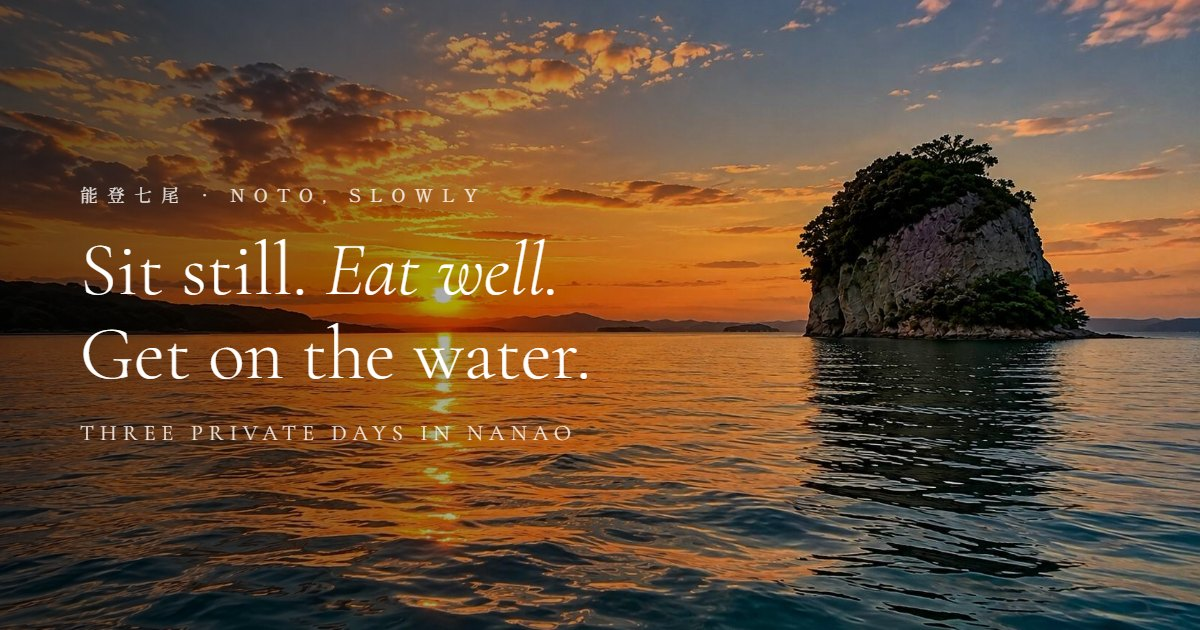
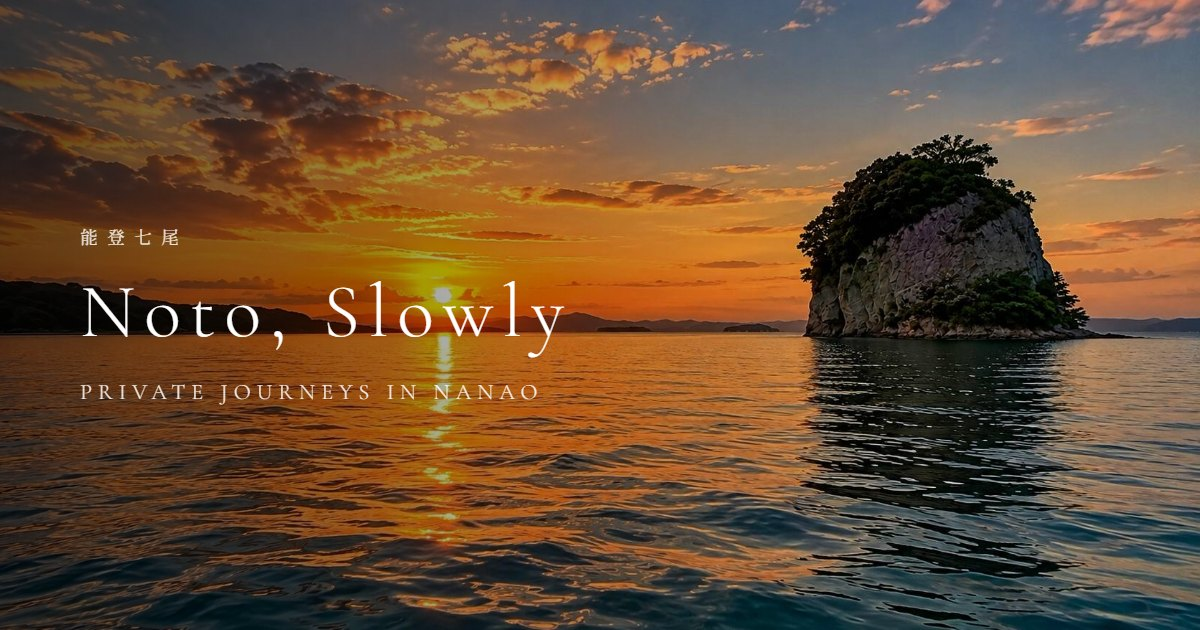
Copy pass: remove hero headline, '...and done' endings, repeats and negations; unify journeys/numbering; new share image

diff --git a/index.html b/index.html
@@ -3,15 +3,15 @@
 <head>
 <meta charset="utf-8">
 <meta name="viewport" content="width=device-width,initial-scale=1">
-<title>Noto, Slowly — Private days in Nanao</title>
-<meta name="description" content="Three private days in Nanao, Noto: Zen and the sea, sushi and its origins, and paddling the bay. Up to 5 guests, hosted by locals.">
+<title>Noto, Slowly — Private journeys in Nanao</title>
+<meta name="description" content="Three private journeys in Nanao, Noto: Zen and the sea, sushi and its origins, and paddling the bay. For 2 to 5 guests, hosted by locals.">
 <!-- v1 2026-10-05：本人「高級感薄くね？星のやを参考に、パクリはダメだからアップデート」で作り直し。
      星のやから借りたのは"原理"だけ＝暗い地の質感・明朝の一行・余白・写真が主役・下の値段バー。
      自前の更新点＝①地の色がツアーごとに移る（苔→漆→藍）②下の値段バーが見ているツアーに切り替わる③縦書きの和名を写真の脇に添える。
      数字・行程の正本＝Cloude秘書/のとくる事業部/ノマド向けLP_3ツアー_工程と計測設計_2026-10-03.md -->
 <meta property="og:type" content="website">
-<meta property="og:title" content="Noto, Slowly — Three private days in Nanao">
-<meta property="og:description" content="Zen and the sea, sushi and its origins, and paddling the bay. Private days for 2 to 5, hosted by locals in English.">
+<meta property="og:title" content="Noto, Slowly — Private journeys in Nanao">
+<meta property="og:description" content="Zen and the sea, sushi and its origins, and paddling the bay. Private journeys for 2 to 5, hosted by locals.">
 <meta property="og:url" content="https://sandboxconnections-spec.github.io/noto-tours-lp/">
 <meta property="og:image" content="https://sandboxconnections-spec.github.io/noto-tours-lp/img/og.jpg">
 <meta property="og:image:width" content="1200"><meta property="og:image:height" content="630">
@@ -78,10 +78,11 @@ html[lang=ja] .bar__l b{font-family:var(--serif)}
 @keyframes slide{0%{opacity:0;transform:scale(1.02)}6%{opacity:1}33%{opacity:1}40%{opacity:0;transform:scale(1.1)}100%{opacity:0}}
 .hero:after{content:"";position:absolute;inset:0;background:linear-gradient(180deg,rgba(0,0,0,.45),rgba(0,0,0,.15) 40%,rgba(0,0,0,.7))}
 .hero__in{position:absolute;inset:0;z-index:1;display:flex;flex-direction:column;align-items:center;justify-content:center;text-align:center;padding:0 24px}
-.vmark{writing-mode:vertical-rl;font:400 15px/1 var(--mincho);letter-spacing:.6em;padding-top:.6em;margin-bottom:44px;border-right:1px solid rgba(255,255,255,.5);padding-right:12px}
+.vmark{writing-mode:vertical-rl;font:400 17px/1 var(--mincho);letter-spacing:.7em;padding-top:.7em;margin-bottom:0;border-right:1px solid rgba(255,255,255,.5);padding-right:12px}
 .hero h1{font:300 clamp(34px,5.2vw,64px)/1.25 var(--serif);letter-spacing:.04em}
 .hero h1 i{font-style:italic}
 .hero .sub{margin-top:30px;font-size:12px;letter-spacing:.3em;text-transform:uppercase;color:rgba(255,255,255,.78)}
+.sr{position:absolute;width:1px;height:1px;overflow:hidden;clip:rect(0 0 0 0);white-space:nowrap}
 .scroll{position:absolute;left:50%;bottom:28px;width:1px;height:56px;background:linear-gradient(rgba(255,255,255,.7),rgba(255,255,255,0));z-index:1;animation:drip 2.6s ease-in-out infinite}
 @keyframes drip{0%{transform:scaleY(0);transform-origin:top}50%{transform:scaleY(1);transform-origin:top}51%{transform-origin:bottom}100%{transform:scaleY(0);transform-origin:bottom}}
 
@@ -154,7 +155,7 @@ a:focus-visible,.btn:focus-visible{outline:1px solid var(--ink);outline-offset:4
 .how h2{font:300 40px/1.3 var(--serif)}
 .how .jp{font:400 12px/1 var(--mincho);letter-spacing:.6em;color:var(--sub);margin-top:18px}
 .qa{max-width:760px;margin:72px auto 0;text-align:left;border-bottom:1px solid var(--faint)}
-.qa>div{display:grid;grid-template-columns:240px 1fr;gap:40px;padding:34px 0;border-top:1px solid var(--faint)}
+.qa>div{display:grid;grid-template-columns:270px 1fr;gap:40px;padding:34px 0;border-top:1px solid var(--faint)}
 .qa h3{font:300 22px/1.35 var(--serif)}
 .qa p,.qa li{color:var(--sub)}
 .qa ul,.qa ol{list-style:none}
@@ -245,24 +246,22 @@ footer b{display:block;font:300 22px/1 var(--serif);letter-spacing:.24em;text-tr
   </div>
   <div class="hero__in">
     <p class="vmark" lang="ja">能登七尾</p>
-    <h1>Sit still. <i>Eat well.</i><br>Get on the water.</h1>
-    <p class="sub">Three private days on the Noto Peninsula</p>
+    <h1 class="sr">Noto, Slowly — private journeys in Nanao</h1>
   </div>
   <span class="scroll" aria-hidden="true"></span>
 </section>
 
 <main>
   <section class="wrap prologue" data-sec="intro">
-    <p class="jp fi" lang="ja">ゆっくり、能登</p>
     <h2 class="fi">A quiet port town on a calm bay, an hour by train from Kanazawa. Three journeys to the people who make it, hosted by those of us who live here.</h2>
-    <p class="fi">Each day is private, for your group of up to five, with one of us beside you in English. You meet the people who brew the soy sauce, shape the sushi and keep the temple — never a tour counter.</p>
+    <p class="fi">Each day is private, for 2 to 5 guests. You meet the people who brew the soy sauce, shape the sushi and keep the temple.</p>
     <div class="rule fi"></div>
   </section>
 
   <nav class="three" aria-label="The three days" data-sec="index">
-    <a href="#zen"><small>I · Mindfulness</small><b>Zen &amp; Sea</b><span lang="ja">禅と海</span></a>
-    <a href="#sushi"><small>II · Gourmet</small><b>Sushi and Its Origins</b><span lang="ja">鮨の源流</span></a>
-    <a href="#sup"><small>III · Activity</small><b>Paddle the Bay</b><span lang="ja">湾を漕ぐ</span></a>
+    <a href="#zen"><small>I — Mindfulness</small><b>Zen &amp; Sea</b><span lang="ja">禅と海</span></a>
+    <a href="#sushi"><small>II — Gourmet</small><b>Sushi and Its Origins</b><span lang="ja">鮨の源流</span></a>
+    <a href="#sup"><small>III — Activity</small><b>Paddle the Bay</b><span lang="ja">湾を漕ぐ</span></a>
   </nav>
 
   <!-- ===== I MINDFULNESS ===== -->
@@ -280,8 +279,8 @@ footer b{display:block;font:300 22px/1 var(--serif);letter-spacing:.24em;text-tr
       </figure>
       <div class="story">
         <div class="fi">
-          <p class="lead">Learn zazen at a former head temple, eat in silence, work with your hands, and sit by the sea. End the day by lighting a candle you chose yourself.</p>
-          <p class="txt">Sojiji Soin was the head temple of the Soto school for almost 600 years. You learn the form of zazen and sit for thirty minutes. In the afternoon you carve a pattern into lacquer chopsticks at a craftsman’s shop, then pick a hand-made Japanese candle on Ipponsugi Street to light after dinner.</p>
+          <p class="lead">Learn zazen at a former head temple, eat in silence, work with your hands, and sit by the sea. Last, you light a candle you chose yourself.</p>
+          <p class="txt">Sojiji Soin was the head temple of the Soto school for almost 600 years. In the afternoon you carve a pattern into lacquer chopsticks at a craftsman’s shop, then pick a hand-made Japanese candle on Ipponsugi Street to light after dinner.</p>
         </div>
         <div class="side fi">
           <img src="img/zen-autumn.jpg" alt="Temple buildings among autumn maples" loading="lazy">
@@ -298,7 +297,6 @@ footer b{display:block;font:300 22px/1 var(--serif);letter-spacing:.24em;text-tr
           <li><time>14:35</time><span>Carve chinkin chopsticks at Araki</span></li>
           <li><time>16:00</time><span>Choose tonight’s candle on Ipponsugi Street</span></li>
           <li><time>17:15</time><span>Dinner, taken slowly</span></li>
-          <li><time>21:25</time><span>Light your candle</span></li>
         </ol>
       </div>
       <div class="terms fi">
@@ -326,7 +324,7 @@ footer b{display:block;font:300 22px/1 var(--serif);letter-spacing:.24em;text-tr
       <div class="story">
         <div class="fi">
           <p class="lead">See how the soy sauce is made, then stand in the rice terraces where the rice is grown. At night, a master’s counter brings it all together.</p>
-          <p class="txt">The day starts at Torii Shoyu, a hundred-year-old brewery in a registered cultural property on Ipponsugi Street, where you see how soy sauce is made. Lunch is at Chiyozushi, a sushi bar in town. In the afternoon we drive to Nakanoto to walk the terraced rice fields with a grower who moved here and lives in an old farmhouse, and learn how the rice is grown. Dinner is at Taisho Sushi near the station, where you sit with the regulars and eat what they eat.</p>
+          <p class="txt">Torii Shoyu has brewed soy sauce for a hundred years, in a building registered as a cultural property. The rice terraces are shown to you by a grower who moved to Nakanoto and lives in an old farmhouse. At Taisho Sushi you sit with the regulars and eat what they eat.</p>
         </div>
         <div class="side fi">
           <img src="img/soy-koji.jpg" alt="Koji being spread on wooden trays at a soy sauce brewery" loading="lazy">
@@ -371,7 +369,7 @@ footer b{display:block;font:300 22px/1 var(--serif);letter-spacing:.24em;text-tr
       <div class="story">
         <div class="fi">
           <p class="lead">Paddle the calm water off Notojima Island in the morning, work in a rice field in the afternoon, and end with dinner upstairs at an old shop in town.</p>
-          <p class="txt">Nanao Bay is enclosed by Notojima Island, so the water is usually flat enough for first-timers. The paddle is with a local outdoor guide and only your group on the water. In season, the afternoon is rice planting (May) or harvest (September). This year’s season has ended. Join the waitlist and we will write to you first when dates for May 2027 open.</p>
+          <p class="txt">Nanao Bay is enclosed by Notojima Island, so the water is usually flat enough for first-timers. The paddle is with a local outdoor guide and only your group on the water. In season, the afternoon is rice planting (May) or harvest (September). Join the waitlist and we will write to you first when dates for May 2027 open.</p>
         </div>
         <div class="side fi">
           <img src="img/terraces.jpg" alt="Rice terraces running down to the Sea of Japan" loading="lazy">
@@ -424,8 +422,8 @@ footer b{display:block;font:300 22px/1 var(--serif);letter-spacing:.24em;text-tr
         <h3>How booking works</h3>
         <ol>
           <li>Send a request with your day, two dates, and the size of your group.</li>
-          <li>We check with every stop and reply by email within 48 hours.</li>
-          <li>We confirm your date by email. You pay on the day, by card or in cash.</li>
+          <li>We check with every stop and confirm your date by email within 48 hours.</li>
+          <li>You pay on the day, by card or in cash.</li>
         </ol>
       </div>
       <div class="fi">
@@ -506,7 +504,7 @@ footer b{display:block;font:300 22px/1 var(--serif);letter-spacing:.24em;text-tr
 </footer>
 
 <div class="bar" id="bar" aria-live="polite">
-  <div class="bar__l"><small id="barName">Three private days</small><b id="barPrice">from ¥165,000<span>per person</span></b></div>
+  <div class="bar__l"><small id="barName">Three private journeys</small><b id="barPrice">from ¥165,000<span>per person</span></b></div>
   <a class="btn" href="#request" id="barBtn" data-tour="">Request a date</a>
 </div>
 
@@ -523,14 +521,12 @@ const JA = {
  "Gourmet": "グルメ",
  "Activity": "アクティビティ",
  "Request": "申込",
- "Sit still. <i>Eat well.</i><br>Get on the water.": "静かに坐る。<br><i>よく味わう。</i><br>湾へ漕ぎ出す。",
- "Three private days on the Noto Peninsula": "能登・七尾で過ごす、貸切の3つの1日",
- "ゆっくり、能登": "NOTO, SLOWLY",
+ "Noto, Slowly — private journeys in Nanao": "Noto, Slowly — 能登・七尾の貸切の旅",
  "A quiet port town on a calm bay, an hour by train from Kanazawa. Three journeys to the people who make it, hosted by those of us who live here.": "金沢から電車で約1時間、穏やかな湾の港町。<br>ここで暮らす私たちが、<br>作り手のもとへご案内する3つの旅です。",
- "Each day is private, for your group of up to five, with one of us beside you in English. You meet the people who brew the soy sauce, shape the sushi and keep the temple — never a tour counter.": "どの日も1組だけの貸切で、2〜5名。私たちのうち1人が1日中ご一緒します。会うのは観光の窓口ではなく、醤油を仕込む人、鮨を握る人、寺を守る人です。",
- "I · Mindfulness": "I · マインドフルネス",
- "II · Gourmet": "II · グルメ",
- "III · Activity": "III · アクティビティ",
+ "Each day is private, for 2 to 5 guests. You meet the people who brew the soy sauce, shape the sushi and keep the temple.": "どの日も1組だけの貸切で、2〜5名。会うのは、醤油を仕込む人、鮨を握る人、寺を守る人です。",
+ "I — Mindfulness": "I — マインドフルネス",
+ "II — Gourmet": "II — グルメ",
+ "III — Activity": "III — アクティビティ",
  "Zen &amp; Sea": "禅と海",
  "禅と海": "Zen &amp; Sea",
  "Sushi and Its Origins": "鮨の源流をたどる",
@@ -550,10 +546,10 @@ const JA = {
  "¥220,000": "220,000円",
  "A drink by candlelight": "ろうそくの灯りで一杯",
  "I — Mindfulness": "I — マインドフルネス",
- "An hour of silence at a temple of six centuries": "六百年の禅寺で、黙って坐る",
+ "An hour of silence at a temple of six centuries": "600年の禅寺で、黙って坐る",
  "Sojiji Soin, Monzen": "總持寺祖院（輪島市門前町）",
- "Learn zazen at a former head temple, eat in silence, work with your hands, and sit by the sea. End the day by lighting a candle you chose yourself.": "かつての大本山で坐禅を習い、黙って食べ、手を動かし、海を前に坐る。最後は自分で選んだろうそくを灯して、1日を終えます。",
- "Sojiji Soin was the head temple of the Soto school for almost 600 years. You learn the form of zazen and sit for thirty minutes. In the afternoon you carve a pattern into lacquer chopsticks at a craftsman’s shop, then pick a hand-made Japanese candle on Ipponsugi Street to light after dinner.": "總持寺祖院は、約600年にわたって曹洞宗の大本山だった寺です。坐禅の作法を習い、30分坐ります。午後は職人の店で漆の箸に模様を彫り、一本杉通りで、夕食のあとに灯す和ろうそくを1本選びます。",
+ "Learn zazen at a former head temple, eat in silence, work with your hands, and sit by the sea. Last, you light a candle you chose yourself.": "かつての大本山で坐禅を習い、黙って食べ、手を動かし、海を前に坐る。最後に、自分で選んだろうそくを灯します。",
+ "Sojiji Soin was the head temple of the Soto school for almost 600 years. In the afternoon you carve a pattern into lacquer chopsticks at a craftsman’s shop, then pick a hand-made Japanese candle on Ipponsugi Street to light after dinner.": "總持寺祖院は、約600年にわたって曹洞宗の大本山だった寺です。午後は職人の店で漆の箸に模様を彫り、一本杉通りで、夕食のあとに灯す和ろうそくを1本選びます。",
  "8:15 – 21:30": "8:15〜21:30",
  "Sojiji Soin — walk up to the gate": "總持寺祖院へ。山門まで歩く",
  "Learn the form, sit for 30 minutes": "作法を習い、30分坐る",
@@ -561,27 +557,25 @@ const JA = {
  "Carve chinkin chopsticks at Araki": "漆陶舗あらきで沈金の箸を彫る",
  "Choose tonight’s candle on Ipponsugi Street": "一本杉通りで今夜のろうそくを選ぶ",
  "Dinner, taken slowly": "ゆっくりと夕食",
- "Light your candle": "ろうそくを灯して終わり",
  "Zazen instruction, chopstick workshop, your candle, dinner, guide": "坐禅の指導、箸づくり、ろうそく1本、夕食、案内",
  "II — Gourmet": "II — グルメ",
  "From the soy brewery and the rice fields to the counter": "醤油の蔵と田んぼから、鮨のカウンターまで",
  "Taisho Sushi, Nanao": "大将寿司（七尾市）",
  "See how the soy sauce is made, then stand in the rice terraces where the rice is grown. At night, a master’s counter brings it all together.": "醤油がどうつくられるかを見て、米が育つ棚田に立つ。夜は職人のカウンターで、そのすべてを味わいます。",
- "The day starts at Torii Shoyu, a hundred-year-old brewery in a registered cultural property on Ipponsugi Street, where you see how soy sauce is made. Lunch is at Chiyozushi, a sushi bar in town. In the afternoon we drive to Nakanoto to walk the terraced rice fields with a grower who moved here and lives in an old farmhouse, and learn how the rice is grown. Dinner is at Taisho Sushi near the station, where you sit with the regulars and eat what they eat.": "朝は、一本杉通りの国登録有形文化財の建物で100年続く鳥居醤油店で、醤油がどうつくられるかを見ます。昼は町の鮨屋、千代ずしで昼食。午後は中能登へ移り、移り住んで古民家で暮らしながら米をつくる方と棚田を歩き、米づくりについて学びます。夕食は駅近くの大将寿司で、常連さんと同じ席に座り、同じものをいただきます。",
+ "Torii Shoyu has brewed soy sauce for a hundred years, in a building registered as a cultural property. The rice terraces are shown to you by a grower who moved to Nakanoto and lives in an old farmhouse. At Taisho Sushi you sit with the regulars and eat what they eat.": "鳥居醤油店は、一本杉通りの国登録有形文化財の建物で100年続く醤油蔵です。棚田を案内するのは、中能登に移り住み、古民家で暮らしながら米をつくる方。大将寿司では、常連さんと同じ席で、同じものをいただきます。",
  "10:00 – 22:00 · Mondays, Tuesdays, Thursdays, Fridays": "10:00〜22:00・月／火／木／金曜",
  "Torii Shoyu — see how the soy sauce is made": "鳥居醤油店で、醤油がどうつくられるかを見る",
  "Lunch at Chiyozushi": "千代ずしで昼食",
  "To Nakanoto — walk the rice terraces with a local grower": "中能登へ。米をつくる方と棚田を歩く",
  "Free time — rest at your inn": "自由時間（宿で休憩）",
  "Dinner at the counter of Taisho Sushi": "大将寿司のカウンターで夕食",
- "Nanao Station, on foot": "七尾駅（町なかは歩いて回る）",
  "Brewery visit, sushi lunch, rice terrace visit, sushi dinner, one drink, guide. Tell us if anyone does not eat raw fish.": "醤油蔵の見学、鮨の昼食、棚田の見学、鮨の夕食、一杯、案内。生ものが苦手な方は、申込のときにお知らせください。",
  "III — Activity": "III — アクティビティ",
  "On water so still it barely moves": "ほとんど波の立たない湾の上で",
  "Next season · from May 2027": "次の季節・2027年5月から",
  "Off Notojima Island": "能登島の沖",
  "Paddle the calm water off Notojima Island in the morning, work in a rice field in the afternoon, and end with dinner upstairs at an old shop in town.": "午前は能登島の沖の穏やかな湾をSUPで漕ぎ、午後は田んぼに入る。夜は町の古い店の2階で夕食をとります。",
- "Nanao Bay is enclosed by Notojima Island, so the water is usually flat enough for first-timers. The paddle is with a local outdoor guide and only your group on the water. In season, the afternoon is rice planting (May) or harvest (September). This year’s season has ended. Join the waitlist and we will write to you first when dates for May 2027 open.": "七尾湾は能登島に囲まれていて、初めての方でも漕ぎやすい水面です。地元のアウトドアガイドと、1組だけで海に出ます。午後は時期によって田植え（5月）か稲刈り（9月）。今年の季節は終わりました。空き待ちに登録いただくと、2027年5月の日程が決まったときに最初にお知らせします。",
+ "Nanao Bay is enclosed by Notojima Island, so the water is usually flat enough for first-timers. The paddle is with a local outdoor guide and only your group on the water. In season, the afternoon is rice planting (May) or harvest (September). Join the waitlist and we will write to you first when dates for May 2027 open.": "七尾湾は能登島に囲まれていて、初めての方でも漕ぎやすい水面です。地元のアウトドアガイドと、1組だけで海に出ます。午後は時期によって田植え（5月）か稲刈り（9月）。空き待ちに登録いただくと、2027年5月の日程が決まったときに最初にお知らせします。",
  "8:00 – 21:00": "8:00〜21:00",
  "SUP off Notojima, private, about 2.5 hours": "能登島でSUP（貸切・約2時間半）",
  "Lunch at an island diner": "島の食堂で昼食",
@@ -595,7 +589,7 @@ const JA = {
  "Before you book": "ご予約の前に",
  "ご予約の前に": "BEFORE YOU BOOK",
  "Is it all right to visit Noto now?": "いま能登に行っても大丈夫？",
- "Yes. The 2024 earthquake hit the peninsula hard, and Nanao is still rebuilding. The places on these days are open, and we confirm every stop before we confirm your date. Coming here, eating here and paying local makers is one of the most direct ways to help.": "はい。2024年の地震で半島は大きな被害を受け、七尾もまだ復興の途中です。この3つの日に訪ねる先は営業していて、日程を確定する前に、すべての訪問先に受け入れを確かめます。来て、食べて、作り手にお金を払うことが、いちばん直接の応援になります。",
+ "Yes. The 2024 earthquake hit the peninsula hard, and Nanao is still rebuilding. The places on these days are open, and we confirm every stop before we confirm your date. Coming here, eating here and paying local makers is one of the most direct ways to help.": "はい。2024年の地震で半島は大きな被害を受け、七尾もまだ復興の途中です。この3つの旅で訪ねる先は営業していて、日程を確定する前に、すべての訪問先に受け入れを確かめます。来て、食べて、作り手にお金を払うことが、いちばん直接の応援になります。",
  "Who will be with you": "誰が案内するか",
  "A small team that lives in Nanao. We run SandBoxConnections, a local company working with the town’s shops, makers and community groups. One of us stays with you the whole day and speaks English.": "七尾で暮らす小さなチームです。合同会社SandBoxConnectionsとして、町の店や作り手、地域の団体と仕事をしています。私たちのうち1人が、1日中ご一緒します。",
  "What your day pays for": "お代に含まれるもの",
@@ -604,8 +598,8 @@ const JA = {
  "Every workshop, meal and entry on the day": "当日の体験・食事・入場料すべて",
  "How booking works": "申込の流れ",
  "Send a request with your day, two dates, and the size of your group.": "希望の日・候補日2つ・人数をお送りください。",
- "We check with every stop and reply by email within 48 hours.": "すべての訪問先に確かめて、48時間以内にメールでお返事します。",
- "We confirm your date by email. You pay on the day, by card or in cash.": "メールで日程を確定します。お支払いは当日、カードか現金で。",
+ "We check with every stop and confirm your date by email within 48 hours.": "すべての訪問先に確かめて、48時間以内にメールで日程を確定します。",
+ "You pay on the day, by card or in cash.": "お支払いは当日、カードか現金で。",
  "If plans change": "キャンセルについて",
  "Cancelling is free up to 14 days before your day. From 13 to 4 days before, the cancellation fee is 50% of the price; within 3 days, it is 100%. If weather or one of our hosts makes the day impossible, there is no fee and we offer another date.": "14日前までは無料です。13日前から4日前までは代金の50%、3日前を過ぎると100%をキャンセル料としていただきます。天候や受け入れ先の都合で実施できない場合はいただかず、別の日をご案内します。",
  "Prices include consumption tax (10%). Lodging and travel to Nanao Station are not included.": "表示価格は消費税（10%）込みです。宿泊と、七尾駅までの交通費は含みません。",
@@ -650,8 +644,8 @@ const JA = {
  "Tell us by email. Free up to 14 days before your day. From 13 to 4 days before, a cancellation fee of 50% of the price; within 3 days, 100%. No fee if weather or one of our hosts makes the day impossible; we offer another date instead.": "メールでご連絡ください。14日前までは無料、13日前から4日前までは代金の50%、3日前を過ぎると100%をキャンセル料としていただきます。天候や受け入れ先の都合で実施できない場合はいただかず、別の日をご案内します。"
 };
 const UI = {
-  en: { title: "Noto, Slowly — Private days in Nanao", barName: "Three private days", barPrice: "from ¥165,000<span>per person</span>", unit: "per person · incl. tax", yen: n => "¥" + n, reqBtn: "Request a date", waitBtn: "Join the waitlist", send: "Send request", sending: "Sending…", reqTitle: "Request a day", waitTitle: "Join the waitlist", reqLead: "Nothing to pay now — you pay on the day. A person in Nanao reads every request and replies by email.", waitLead: "No dates and no payment for now. We will write to you first when dates for May 2027 open.", errReq: "Please choose a day, a date, the number of guests, your name and email.", errWait: "Please choose the number of guests, your name and email.", errSend: "Sorry, your request could not be sent. Please try again in a moment.", doneReq: "We have your request and will reply by email within 48 hours.", doneWait: "You are on the waitlist. We will write to you first when dates for May 2027 open.", switchTo: "日本語", switchLabel: "日本語で表示", placeholder: "Kanazawa, Fukuoka…" },
-  ja: { title: "Noto, Slowly — 七尾で過ごす貸切の1日", barName: "貸切の3つの1日", barPrice: "165,000円〜<span>1名</span>", unit: "1名・税込", yen: n => n + "円", reqBtn: "日程を申し込む", waitBtn: "空き待ちに登録", send: "申込を送る", sending: "送信中…", reqTitle: "この日を申し込む", waitTitle: "空き待ちに登録する", reqLead: "いまはお支払いは不要です（当日払い）。七尾の私たちがすべてに目を通し、メールでお返事します。", waitLead: "日付もお支払いも、いまは要りません。2027年5月の日程が決まったら、最初にお知らせします。", errReq: "希望の日・第1希望・人数・お名前・メールアドレスを入れてください。", errWait: "人数・お名前・メールアドレスを入れてください。", errSend: "送信できませんでした。少し時間をおいて、もう一度お試しください。", doneReq: "申込を受け取りました。48時間以内にメールでお返事します。", doneWait: "空き待ちに登録しました。2027年5月の日程が決まったら、最初にお知らせします。", switchTo: "EN", switchLabel: "Show in English", placeholder: "例：和倉温泉、金沢" }
+  en: { title: "Noto, Slowly — Private journeys in Nanao", barName: "Three private journeys", barPrice: "from ¥165,000<span>per person</span>", unit: "per person · incl. tax", yen: n => "¥" + n, reqBtn: "Request a date", waitBtn: "Join the waitlist", send: "Send request", sending: "Sending…", reqTitle: "Request a day", waitTitle: "Join the waitlist", reqLead: "Nothing to pay now — you pay on the day. A person in Nanao reads every request and replies by email.", waitLead: "No dates and no payment for now. We will write to you first when dates for May 2027 open.", errReq: "Please choose a day, a date, the number of guests, your name and email.", errWait: "Please choose the number of guests, your name and email.", errSend: "Sorry, your request could not be sent. Please try again in a moment.", doneReq: "We have your request and will reply by email within 48 hours.", doneWait: "You are on the waitlist. We will write to you first when dates for May 2027 open.", switchTo: "日本語", switchLabel: "日本語で表示", placeholder: "Kanazawa, Fukuoka…" },
+  ja: { title: "Noto, Slowly — 能登・七尾の貸切の旅", barName: "貸切の3つの旅", barPrice: "165,000円〜<span>1名</span>", unit: "1名・税込", yen: n => n + "円", reqBtn: "日程を申し込む", waitBtn: "空き待ちに登録", send: "申込を送る", sending: "送信中…", reqTitle: "この日を申し込む", waitTitle: "空き待ちに登録する", reqLead: "いまはお支払いは不要です（当日払い）。七尾の私たちがすべてに目を通し、メールでお返事します。", waitLead: "日付もお支払いも、いまは要りません。2027年5月の日程が決まったら、最初にお知らせします。", errReq: "希望の日・第1希望・人数・お名前・メールアドレスを入れてください。", errWait: "人数・お名前・メールアドレスを入れてください。", errSend: "送信できませんでした。少し時間をおいて、もう一度お試しください。", doneReq: "申込を受け取りました。48時間以内にメールでお返事します。", doneWait: "空き待ちに登録しました。2027年5月の日程が決まったら、最初にお知らせします。", switchTo: "EN", switchLabel: "Show in English", placeholder: "例：和倉温泉、金沢" }
 };
 const norm = h => h.replace(/\s+/g, " ").trim();
 const OK_INLINE = new Set(["I", "EM", "BR"]);

diff --git a/og-src.html b/og-src.html
@@ -6,6 +6,6 @@ img{position:absolute;inset:0;width:100%;height:100%;object-fit:cover;object-pos
 .sh{position:absolute;inset:0;background:linear-gradient(90deg,rgba(0,0,0,.62),rgba(0,0,0,.15) 60%,rgba(0,0,0,0))}
 .t{position:absolute;left:80px;top:50%;transform:translateY(-50%)}
 .v{font:400 18px/1 "Shippori Mincho B1",serif;letter-spacing:.5em;opacity:.85}
-h1{font-weight:300;font-size:76px;line-height:1.1;margin-top:26px}h1 i{font-style:italic}
+h1{font-weight:300;letter-spacing:.12em;font-size:76px;line-height:1.1;margin-top:26px}h1 i{font-style:italic}
 p{margin-top:26px;font:300 22px/1 "Cormorant Garamond";letter-spacing:.28em;text-transform:uppercase;opacity:.9}</style></head>
-<body><img src="img/hero-bay-sunset.jpg"><div class="sh"></div><div class="t"><div class="v">能登七尾 · NOTO, SLOWLY</div><h1>Sit still. <i>Eat well.</i><br>Get on the water.</h1><p>Three private days in Nanao</p></div></body></html>
+<body><img src="img/hero-bay-sunset.jpg"><div class="sh"></div><div class="t"><div class="v">能登七尾</div><h1>Noto, Slowly</h1><p>Private journeys in Nanao</p></div></body></html>
